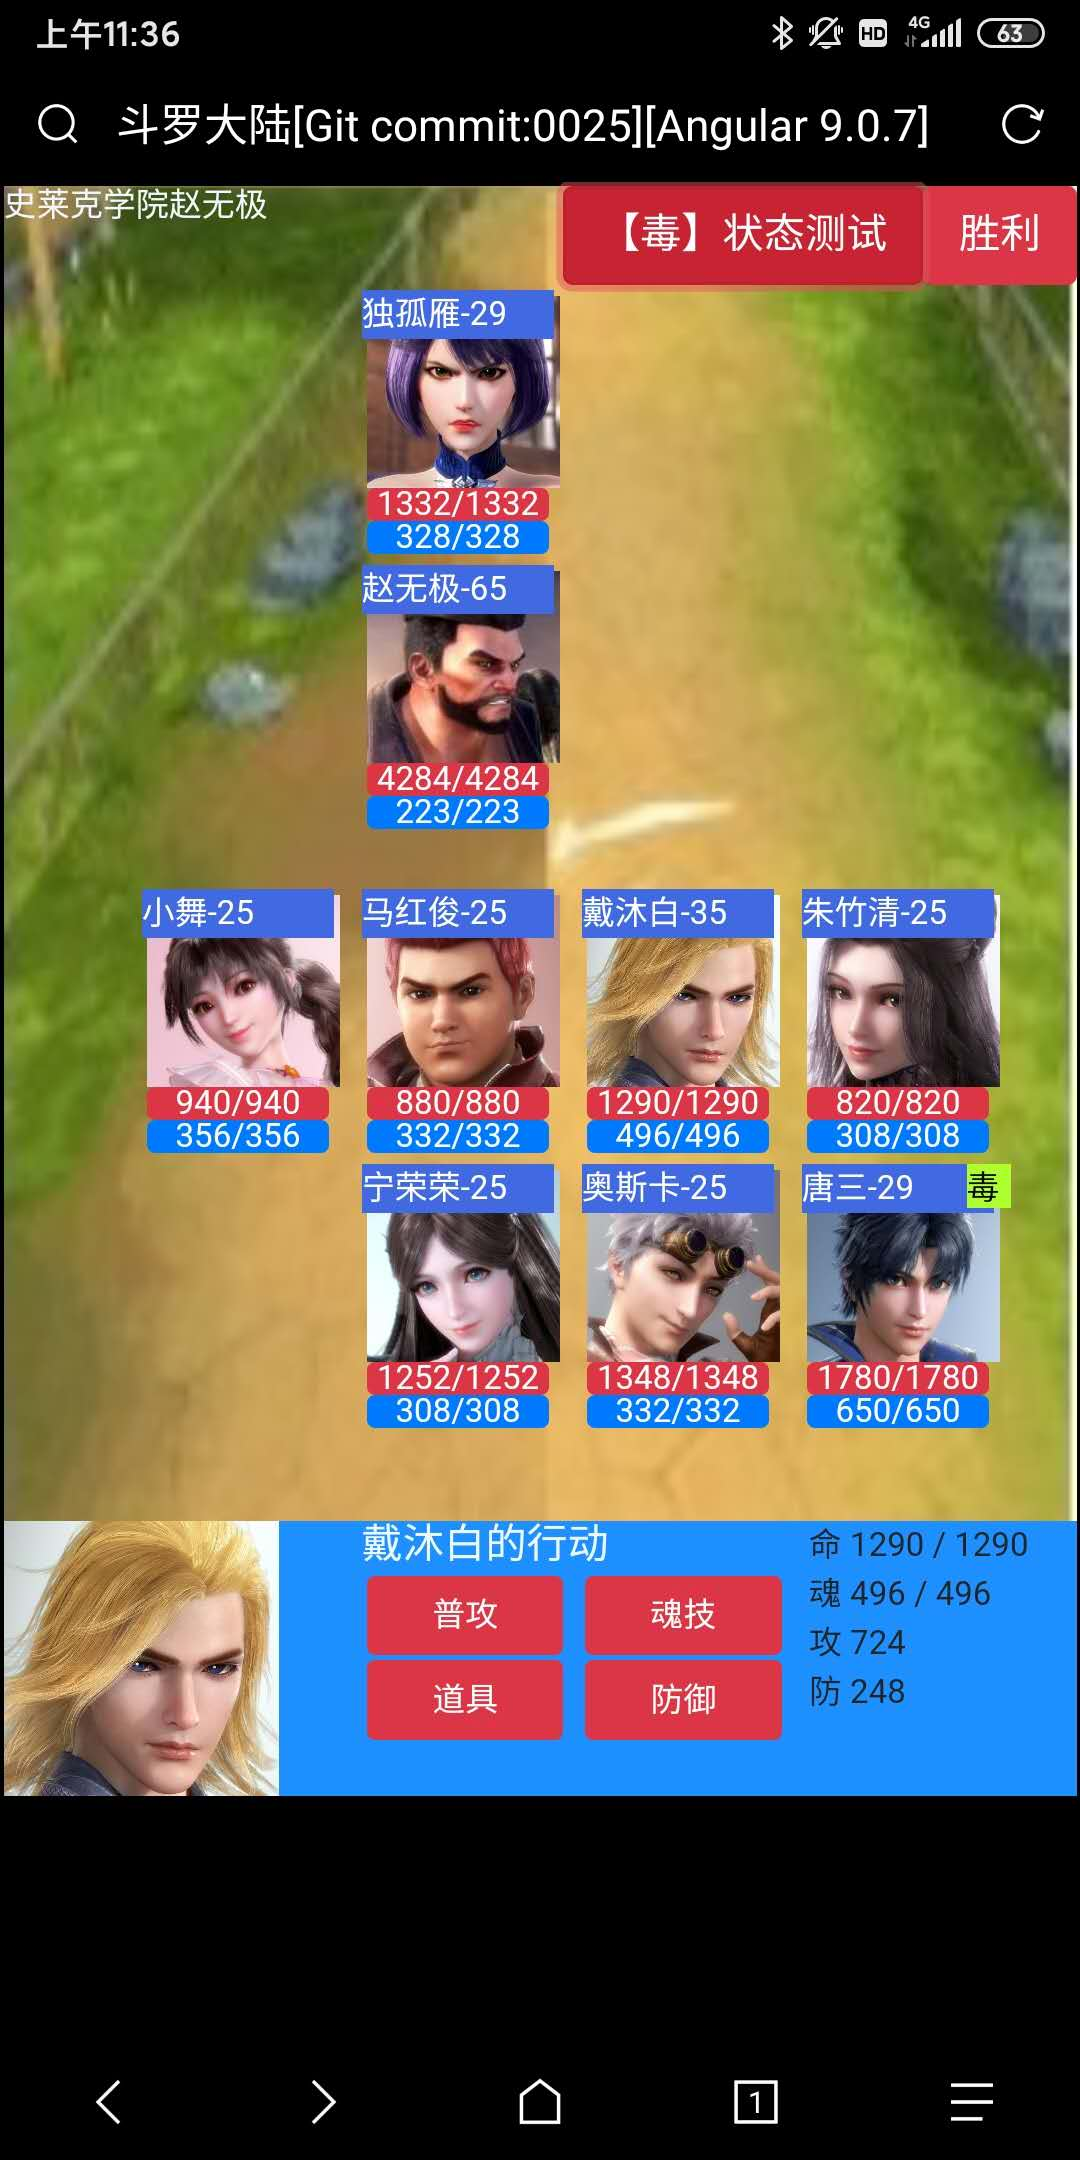
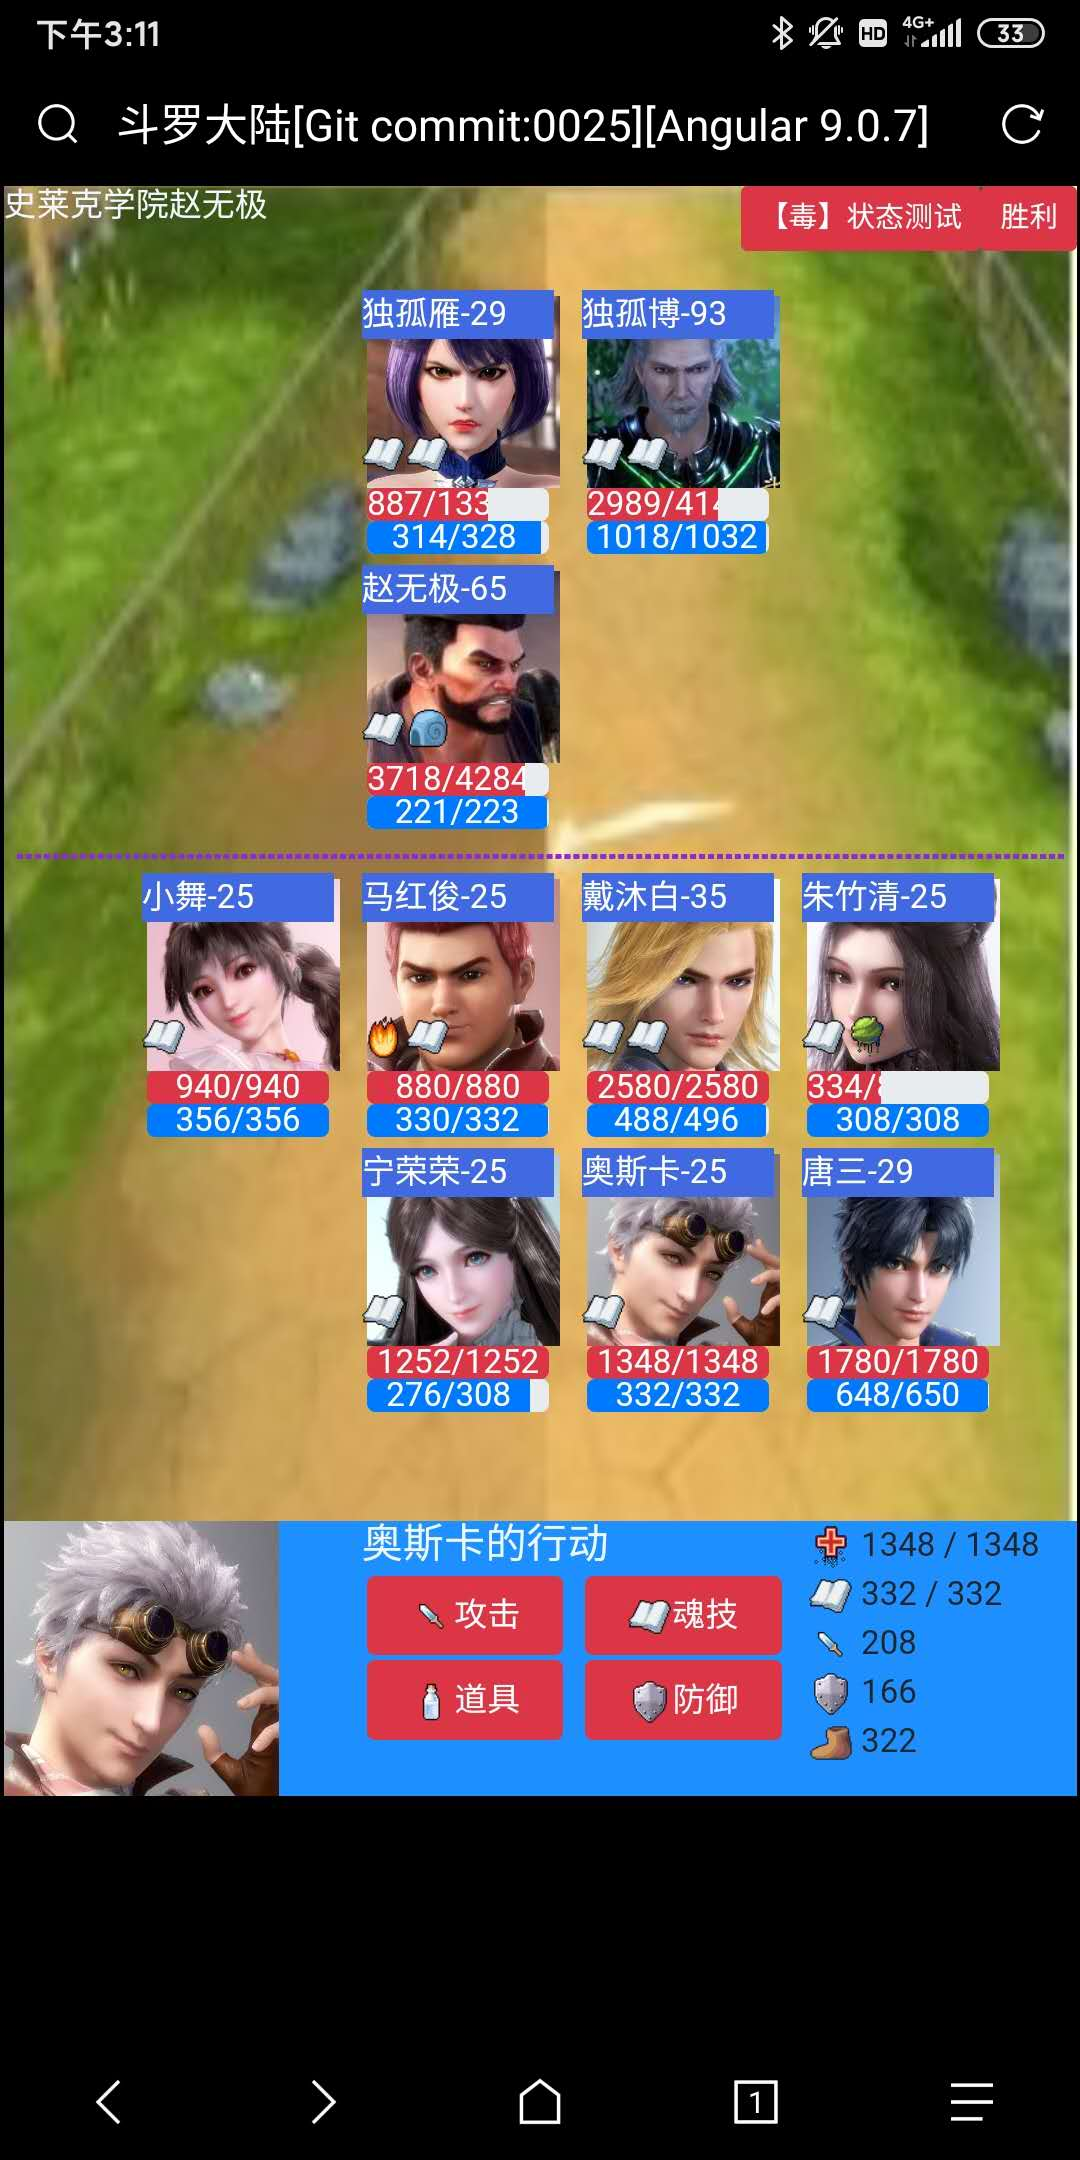
教程更新

diff --git a/UI/src/app/fight/fight.component.html b/UI/src/app/fight/fight.component.html
@@ -1,11 +1,11 @@
 <div [ngStyle]="{'background-image': 'url(/assets/scene/' + this.ge.fightStatus.info.Background + '.jpg)'}"
     style="position:relative;height:0;padding-bottom: 150%;width: 100%;background-size: contain; ">
-    <button class="btn btn-lg btn-danger" (click)="Exit()" style="float: right;">胜利</button>
-    <button class="btn btn-lg btn-danger" (click)="SkillTest()" style="float: right;">【毒】状态测试</button>
+    <button class="btn btn-sm btn-danger" (click)="Exit()" style="float: right;">胜利</button>
+    <button class="btn btn-sm btn-danger" (click)="SkillTest()" style="float: right;">【毒】状态测试</button>
     <h6 style="color: aliceblue;width: 50%;">{{this.ge.fightStatus.info.Title}}</h6>
     <br />
     <app-formation [Fighterlist]="this.ge.fightStatus.Enemy" (ItemClickedEmit)="ItemClicked($event)"></app-formation>
-    <br />
+    <hr style="border: blueviolet dashed 1px;margin: 5px;" />
     <app-formation [Fighterlist]="this.ge.fightStatus.MyTeam" (ItemClickedEmit)="ItemClicked($event)"></app-formation>
 
     <div class="container" *ngIf="FightEnd"
@@ -74,29 +74,30 @@
                 <div class="container" style="padding:0px">
                     <div class="row" style="margin: 2px;padding:0px">
                         <div class="col-6" style="padding:0px">
-                            <button class="btn  btn-danger" style="width: 90%;" (click)="Attack()">普攻</button>
+                            <button class="btn  btn-danger" style="width: 90%;" (click)="Attack()"><img src="assets/Icons/W_Dagger001.png" width="16px" height="16px" />攻击</button>
                         </div>
                         <div class="col-6" style="padding:0px">
-                            <button class="btn  btn-danger" style="width: 90%;" (click)="Skill()">魂技</button>
+                            <button class="btn  btn-danger" style="width: 90%;" (click)="Skill()"><img src="assets/Icons/I_Book.png" width="16px" height="16px" />魂技</button>
                         </div>
                     </div>
                     <div class="row" style="margin: 2px;padding:0px">
                         <div class="col-6" style="padding:0px">
-                            <button class="btn btn-danger" style="width: 90%;" (click)="Tool()">道具</button>
+                            <button class="btn btn-danger" style="width: 90%;" (click)="Tool()"><img src="assets/Icons/I_Water.png" width="16px" height="16px" />道具</button>
                         </div>
                         <div class="col-6" style="padding:0px">
-                            <button class="btn btn-danger" style="width: 90%;" (click)="Defence()">防御</button>
+                            <button class="btn btn-danger" style="width: 90%;" (click)="Defence()"><img src="assets/Icons/E_Metal04.png" width="16px" height="16px" />防御</button>
                         </div>
                     </div>
                 </div>
             </div>
             <div class="col-3" style="padding:0px;">
-                命&nbsp;{{this.ge.fightStatus.currentActionCharater.HP}} /
+                <img src="assets/Icons/S_Holy03.png" width="16px" height="16px" />&nbsp;{{this.ge.fightStatus.currentActionCharater.HP}} /
                 {{this.ge.fightStatus.currentActionCharater.RealMaxHP}} <br />
-                魂&nbsp;{{this.ge.fightStatus.currentActionCharater.MP}} /
+                <img src="assets/Icons/I_Book.png" width="16px" height="16px" />&nbsp;{{this.ge.fightStatus.currentActionCharater.MP}} /
                 {{this.ge.fightStatus.currentActionCharater.RealMaxMP}} <br />
-                攻&nbsp;{{this.ge.fightStatus.currentActionCharater.RealTimeAct}} <br />
-                防&nbsp;{{this.ge.fightStatus.currentActionCharater.RealTimeDef}} <br />
+                <img src="assets/Icons/W_Dagger001.png" width="16px" height="16px" />&nbsp;{{this.ge.fightStatus.currentActionCharater.RealTimeAct}} <br />
+                <img src="assets/Icons/E_Metal04.png" width="16px" height="16px" />&nbsp;{{this.ge.fightStatus.currentActionCharater.RealTimeDef}} <br />
+                <img src="assets/Icons/A_Shoes01.png" width="16px" height="16px" />&nbsp;{{this.ge.fightStatus.currentActionCharater.RealSpeed}} <br />
             </div>
         </div>
     </div>

diff --git a/UI/src/app/login/login.component.html b/UI/src/app/login/login.component.html
@@ -1,18 +1,17 @@
 <div style="position:relative;height:0;padding-bottom: 150%;width: 100%;
             background-image: url('assets/cover.jpg'); background-size: contain;">
-<div style="text-align: center;height: 300px;">
-   
-</div>
-<div
-    style="position: absolute;z-index: 99; bottom: 0px;width: 100%;height: 80px;text-align: center;">
-    <input type="button" class="btn btn-primary" (click)="Start()" value="新的游戏"/>
-    &nbsp;&nbsp;
-    <input type="button" class="btn btn-primary"  (click)="Load()" value="读取存档" />
-    &nbsp;&nbsp;
-    <input type="button" class="btn btn-primary"  (click)="MiniGame()" value="记忆力游戏" />
-    &nbsp;&nbsp;
-    <input type="button" class="btn btn-primary"  (click)="MiniGame2()" value="连连看" />
-    &nbsp;&nbsp;
+    <div style="text-align: center;height: 300px;">
 
-</div>
+    </div>
+    <div style="position: absolute;z-index: 99; bottom: 0px;width: 100%;height: 80px;text-align: center;">
+        <input type="button" class="btn btn-primary" (click)="Start()" value="新的游戏" />
+        &nbsp;&nbsp;
+        <input type="button" class="btn btn-primary" (click)="Load()" value="读取存档" />
+        &nbsp;&nbsp;
+        <input type="button" class="btn btn-primary" (click)="MiniGame()" value="记忆力游戏" />
+        &nbsp;&nbsp;
+        <input type="button" class="btn btn-primary" (click)="MiniGame2()" value="连连看" />
+        &nbsp;&nbsp;
+
+    </div>
 </div>

diff --git a/UI/src/app/formation/formationItem.component.ts b/UI/src/app/formation/formationItem.component.ts
@@ -14,22 +14,22 @@ export class FormationItemComponent implements OnInit {
 
     @Output() ItemClickedEmit: EventEmitter<character> = new EventEmitter();
 
-    get StatusTitle(): string {
+    get StatusTitle(): Array<string> {
         if (this.Item.BufferStatusList.length == 0) return undefined;
-        let s = "";
+        let s = new Array<string>();
         this.Item.BufferStatusList.forEach(element => {
             switch (element.Status) {
                 case characterStatus.魂技:
-                    s += "技";
+                    s.push("I_Book.png");
                     break;
                 case characterStatus.中毒:
-                    s += "毒"
+                    s.push("S_Poison05.png");
                     break;
                 case characterStatus.浴火凤凰:
-                    s += "火"
+                    s.push("S_Fire03.png");
                     break;
                 case characterStatus.束缚:
-                    s += "缚"
+                    s.push("I_SnailShell.png");
                     break;
                 default:
                     break;

diff --git a/UI/src/app/formation/formationItem.component.html b/UI/src/app/formation/formationItem.component.html
@@ -2,9 +2,8 @@
     <div style="position: absolute;top: 0px;left: 0px;z-index: 998;width:70px;background-color:royalblue ;opacity: 1;">
         <font color="white">{{Item.Name}}-{{Item.LV}}</font>
     </div>
-    <div *ngIf="StatusTitle !== undefined" [ngStyle]="{'width':(this.Item.BufferStatusList.length * 16)+ 'px'}"
-        style="position: absolute;top: 50px;left: 0px;z-index: 999;height:16px;background-color:greenyellow ;opacity: 1;">
-        <font color="black">{{StatusTitle}}</font>
+    <div style="position: absolute;top: 50px;left: 0px;z-index: 999;height:16px;">
+        <img  *ngFor="let s of this.StatusTitle" [src]="'/assets/Icons/' + s" width="16px" height="16px" />
     </div>
     <img [src]="'/assets/character/' + Item.Name + '/头像.jpg'" width="70px" height="70px">
     <div class="progress">

diff --git a/Tutorial/FightFlow.md b/Tutorial/FightFlow.md
@@ -1,0 +1,97 @@
+# 战斗流程
+
+## 回合开始
+
+每一个回合开始的时候，首先对上一个回合进行一次清算。
+
+- 状态回合数的递减
+- 中毒状态的伤害计算
+
+```typescript
+    BufferTurnDown() {
+        this.BufferStatusList.forEach(element => {
+            if (element.Status === characterStatus.中毒) {
+                //中毒状态，如果存在HP伤害部分，则这里处理，由于使用了get自动属性功能，Real系的都会自动计算
+                if (element.HPFactor !== undefined) this.HP += this.HP * element.HPFactor;
+                if (element.HPValue !== undefined) this.HP += element.HPValue;
+            }
+            element.Turns -= 1;
+        });
+        this.BufferStatusList = this.BufferStatusList.filter(x => x.Turns > 0);
+    }
+```
+  
+> 极端情况下，敌我双方都可能被束缚，无法行动，所以先做一下判断是否有可以行动的角色。
+
+按照出手速度，将所有角色放在一个数组里面，然后决定第一个出手的人，如果是我方人员，等待用户界面的指令输入，如果是敌方的话，则使用AI进行行动。无论是AI还是用户界面的指令，一旦完成，则执行ActionDone方法，进行胜负判定，切换当前的行动角色。
+
+```typescript
+/**当前角色动作完成 */
+    ActionDone() {
+        //胜负统计
+        let MyTeamLive = this.MyTeam.find(x => x !== undefined && x.HP > 0);
+        if (MyTeamLive === undefined) {
+            console.log("团灭");
+            this.MyTeam.forEach(element => { this.InitRole(element) });
+            this.ResultEvent.emit(0);
+            return;
+        }
+
+        let EnemyTeamLive = this.Enemy.find(x => x !== undefined && x.HP > 0);
+        if (EnemyTeamLive === undefined) {
+            console.log("胜利");
+            this.MyTeam.forEach(element => { this.InitRole(element) });
+            this.ResultEvent.emit(1);
+            return;
+        }
+        //气绝者去除
+        this.MyTeam = this.MyTeam.map(x => x !== undefined && x.HP > 0 ? x : undefined);
+        this.Enemy = this.Enemy.map(x => x !== undefined && x.HP > 0 ? x : undefined);
+
+        if (this.TurnList.length == 0) {
+            console.log("回合结束");
+            this.NewTurn();
+        } else {
+            let Role = this.TurnList.pop();
+            let block = Role.BufferStatusList.find(x => x.Status === characterStatus.束缚);
+
+            if (Role === undefined || block !== undefined) {
+                console.log(Role.Name + ":角色已经气绝,或者角色被束缚");
+                this.ActionDone();
+            } else {
+                console.log("当前角色：" + Role.Name + "[" + Role.IsMyTeam + "]");
+                this.currentActionCharater = Role;
+                if (!Role.IsMyTeam) {
+                    //AI For Enemy
+                    RPGCore.EnemyAI(Role, this);
+                    this.ActionDone();
+                }
+            }
+        }
+    }
+```
+
+>这里使用了@Output()的EventEmitter<>向外部发送消息战斗结束。由于敌方AI运行速度极快，所以这里没有发送消息给用户界面指示我方可以行动了。
+
+```typescript
+    ngOnInit(): void {
+        this.ge.InitFightStatus();
+        this.Message = this.ge.fightStatus.currentActionCharater.Name + "的行动";
+        this.ge.fightStatus.ResultEvent.subscribe((x) => {
+            if (x === 0) {
+                this.FightResultTitle = "团灭了......魂力不足"
+                this.ge.gamestatus.lineIdx--;
+            } else {
+                this.FightResultTitle = "胜利了......奥力给"
+                this.ge.gamestatus.lineIdx++;
+            }
+            this.FightEnd = true;
+            console.log("jump to scene");
+            setTimeout(() => { this.router.navigateByUrl("scene"); }, 3000);
+        }, null, null);
+    }
+```
+
+>EventEmitter在用户界面使用subscribe进行订阅
+
+### ver0.01 2020/03/25

diff --git a/Tutorial/Angular.md b/Tutorial/Angular.md
@@ -1,0 +1,26 @@
+# Angular技巧
+
+## 关于get计算属性
+
+在界面绑定的时候，如果绑定的是get的计算属性，则get计算属性的值也是被监视的，其值也会随着其依赖的值的变化而变化的。不用担心get计算属性值在界面上不刷新。
+
+## *ngFor在无子元素的组件上运用
+
+一般的li,tr元素，由于都包含了子元素，所以觉得可以用 *ngFor,对于img这种没有子元素的组件，同样也可以使用 ngFor的。
+
+```html
+        <img  *ngFor="let s of this.StatusTitle" [src]="'/assets/Icons/' + s" width="16px" height="16px" />
+```
+
+只有 ngSwitch需要有父元素
+
+```html
+<div [ngSwitch]="this.Status" style="width: 52px;height: 52px;padding: 2px;"
+    [ngStyle]="{'background-color':BackGoundColor}" (click)="CellClicked()">
+    <img *ngSwitchCase="HideStatus" [src]="'/assets/minilogo.jpg'" width="48px" height="48px">
+    <img *ngSwitchCase="ShowStatus" [src]="'/assets/character/' + ImageName + '/头像.jpg'" width="48px" height="48px">
+    <img *ngSwitchCase="SelectedStatus" [src]="'/assets/character/' + ImageName + '/头像.jpg'" width="48px" height="48px">
+</div>
+```
+
+### ver0.01 2020/03/25

diff --git a/Tutorial/README.md b/Tutorial/README.md
@@ -2,4 +2,7 @@
 
 ## 目录
 
-[RPG系统构造](RPGSystem.md)
+- [RPG系统构造](RPGSystem.md)
+- [战斗流程](FightFlow.md)
+- [Angular技巧](Angular.md)
+- [HTML技巧](HTML.md)

diff --git a/Tutorial/HTML.md b/Tutorial/HTML.md
@@ -1,0 +1,1 @@
+# HTML技巧
